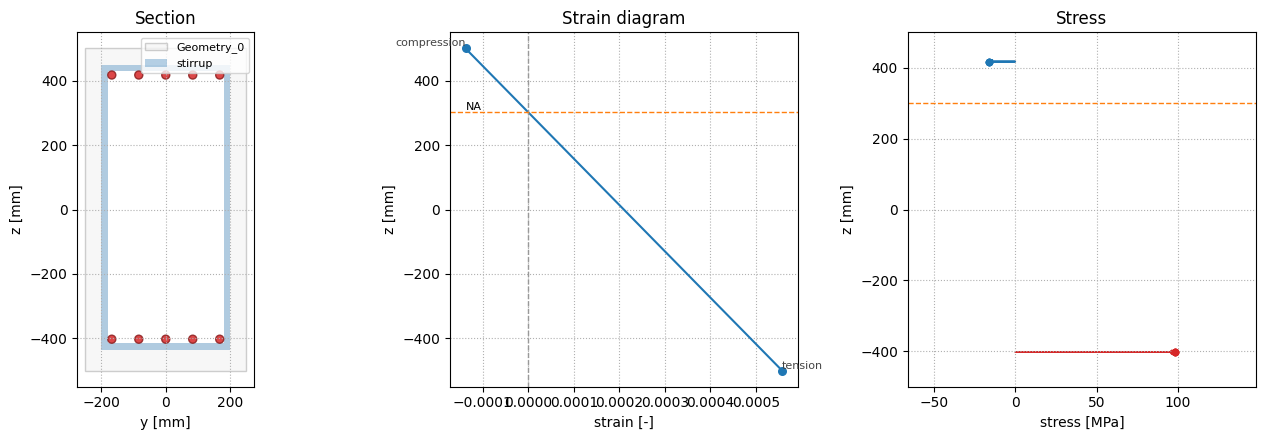
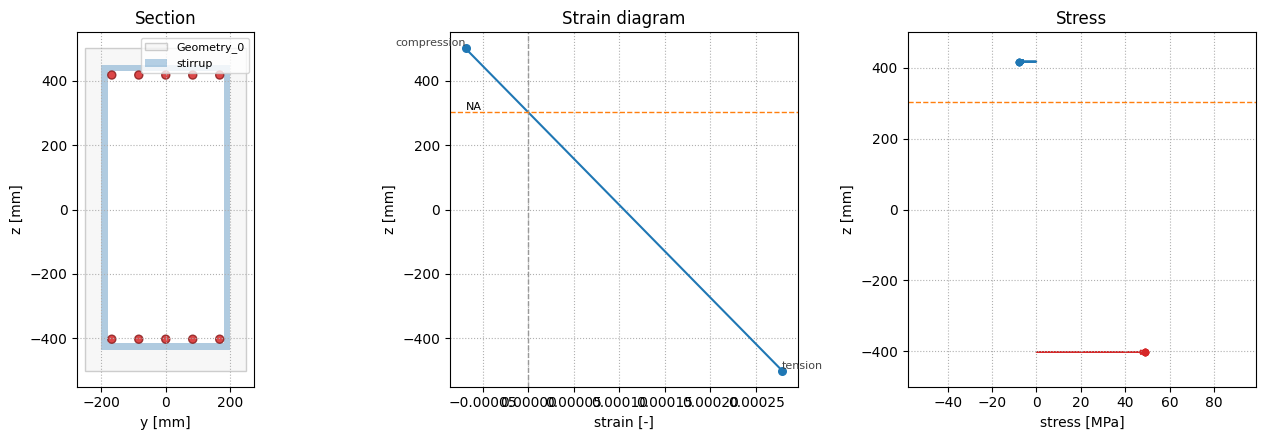
feat: Add new surface reinforcement calculations and update crack width computation

diff --git a/concrete_calculations.py b/concrete_calculations.py
@@ -385,13 +385,12 @@ def compute_crack_widths_ec2(
     steel_stresses=None,
     load_type: str = 'short',
 ) -> dict[str, float]:
-    """Compute crack width at top and bottom using EC2:2004 helpers (simplified).
+    """Compute crack widths using EC2:2004 §7.3.2/7.3.4 (wk = sr,max·(εsm-εcm)).
 
     Returns mm values for 'top' and 'bottom' where tension occurs; otherwise None.
     """
     if steel_stresses is None:
         steel_stresses = compute_steel_stresses(section, strain_result)
-    steel_lookup = {(bar['x_mm'], bar['y_mm']): bar for bar in steel_stresses}
 
     def side_result(side: str):
         data = _collect_side_data(section, side, strain_result)
@@ -413,16 +412,38 @@ def compute_crack_widths_ec2(
         height = data['height']
         chi_y = strain_result.chi_y
         eps_a = strain_result.eps_a
-        z_na = None if chi_y == 0 else -eps_a / chi_y
-        maxz = data['maxz']
-        minz = data['minz']
-        if z_na is None:
-            tension_depth = height / 2
-        elif side == 'top':
-            tension_depth = max(maxz - min(z_na, maxz), 0.0)
+        y_na = None if chi_y == 0 else -eps_a / chi_y
+        tension_face = data['maxz'] if side == 'top' else data['minz']
+        compression_face = data['minz'] if side == 'top' else data['maxz']
+
+        # Distance from tension face to neutral axis (cap to section depth)
+        if y_na is None:
+            tension_depth = height
         else:
-            tension_depth = max(max(z_na, minz) - minz, 0.0)
-        Ac_eff = width * max(tension_depth, 1e-6)
+            raw_depth = (
+                tension_face - y_na if side == 'top' else y_na - tension_face
+            )
+            if raw_depth <= 0:
+                tension_depth = height
+            elif raw_depth >= height:
+                tension_depth = height
+            else:
+                tension_depth = raw_depth
+
+        # Effective depth to tensile reinforcement from compression face
+        centroid_y = (
+            sum((b['bar'].y * (math.pi * b['bar'].diameter ** 2 / 4)) for b in bars)
+            / As_tot
+        )
+        d = (
+            centroid_y - compression_face
+            if side == 'top'
+            else compression_face - centroid_y
+        )
+        h_minus_d = max(height - d, 0.0)
+        # Effective tension area thickness per EC2 §7.3.2
+        h_ceff = max(min(2.5 * h_minus_d, tension_depth / 3, height / 2), 0.0)
+        Ac_eff = width * max(h_ceff, 1e-9)
         rho_p_eff = As_tot / Ac_eff if Ac_eff > 0 else 0
         if rho_p_eff <= 0:
             return None
@@ -435,6 +456,7 @@ def compute_crack_widths_ec2(
         Es = bars[0]['bar'].material.constitutive_law.get_tangent(eps=0)
         Ecm = getattr(concrete, 'Ecm', 30000)
         alpha_e = Es / Ecm
+        x_depth = height - tension_depth  # depth of NA from compression face
 
         spacing_threshold = ec2_cr.w_spacing(cover, phi)
         if spacing == 0:
@@ -442,8 +464,7 @@ def compute_crack_widths_ec2(
         if spacing <= spacing_threshold:
             sr_max = ec2_cr.sr_max_close(cover, phi, rho_p_eff, k1, k2)
         else:
-            x = height - tension_depth
-            sr_max = ec2_cr.sr_max_far(height, x)
+            sr_max = ec2_cr.sr_max_far(height, x_depth)
 
         sigma_s = max(b['sigma'] for b in bars if b['sigma'] > 0) if bars else 0
         if sigma_s <= 0:
@@ -864,7 +885,7 @@ def example():
         stirrup_diameter=20,
         stirrup_spacing=150,
     )
-    load = LoadState(m_y=200)
+    load = LoadState(m_y=100)
 
     section = build_section(cfg)
     results = solve_bending_and_mc(section, load)

diff --git a/_section_9_7.py b/_section_9_7.py
@@ -1,0 +1,21 @@
+
+
+B = 950
+H = 2450
+
+A = B * H
+
+d_surface = 20 # mm
+n_bars = 10
+
+A_s = n_bars * 3.14 * (d_surface / 2) ** 2
+A_c = B*H
+
+A_s_min = max(0.001*A_c, 150)
+
+
+print(f"""
+Areal lagt inn overflatearmering: {A_s:.1f} mm²
+Minimumskrav til overflatearmering: {A_s_min:.1f} mm
+CHECK: {'OK' if A_s >= A_s_min else 'IKKE OK'}
+""")
